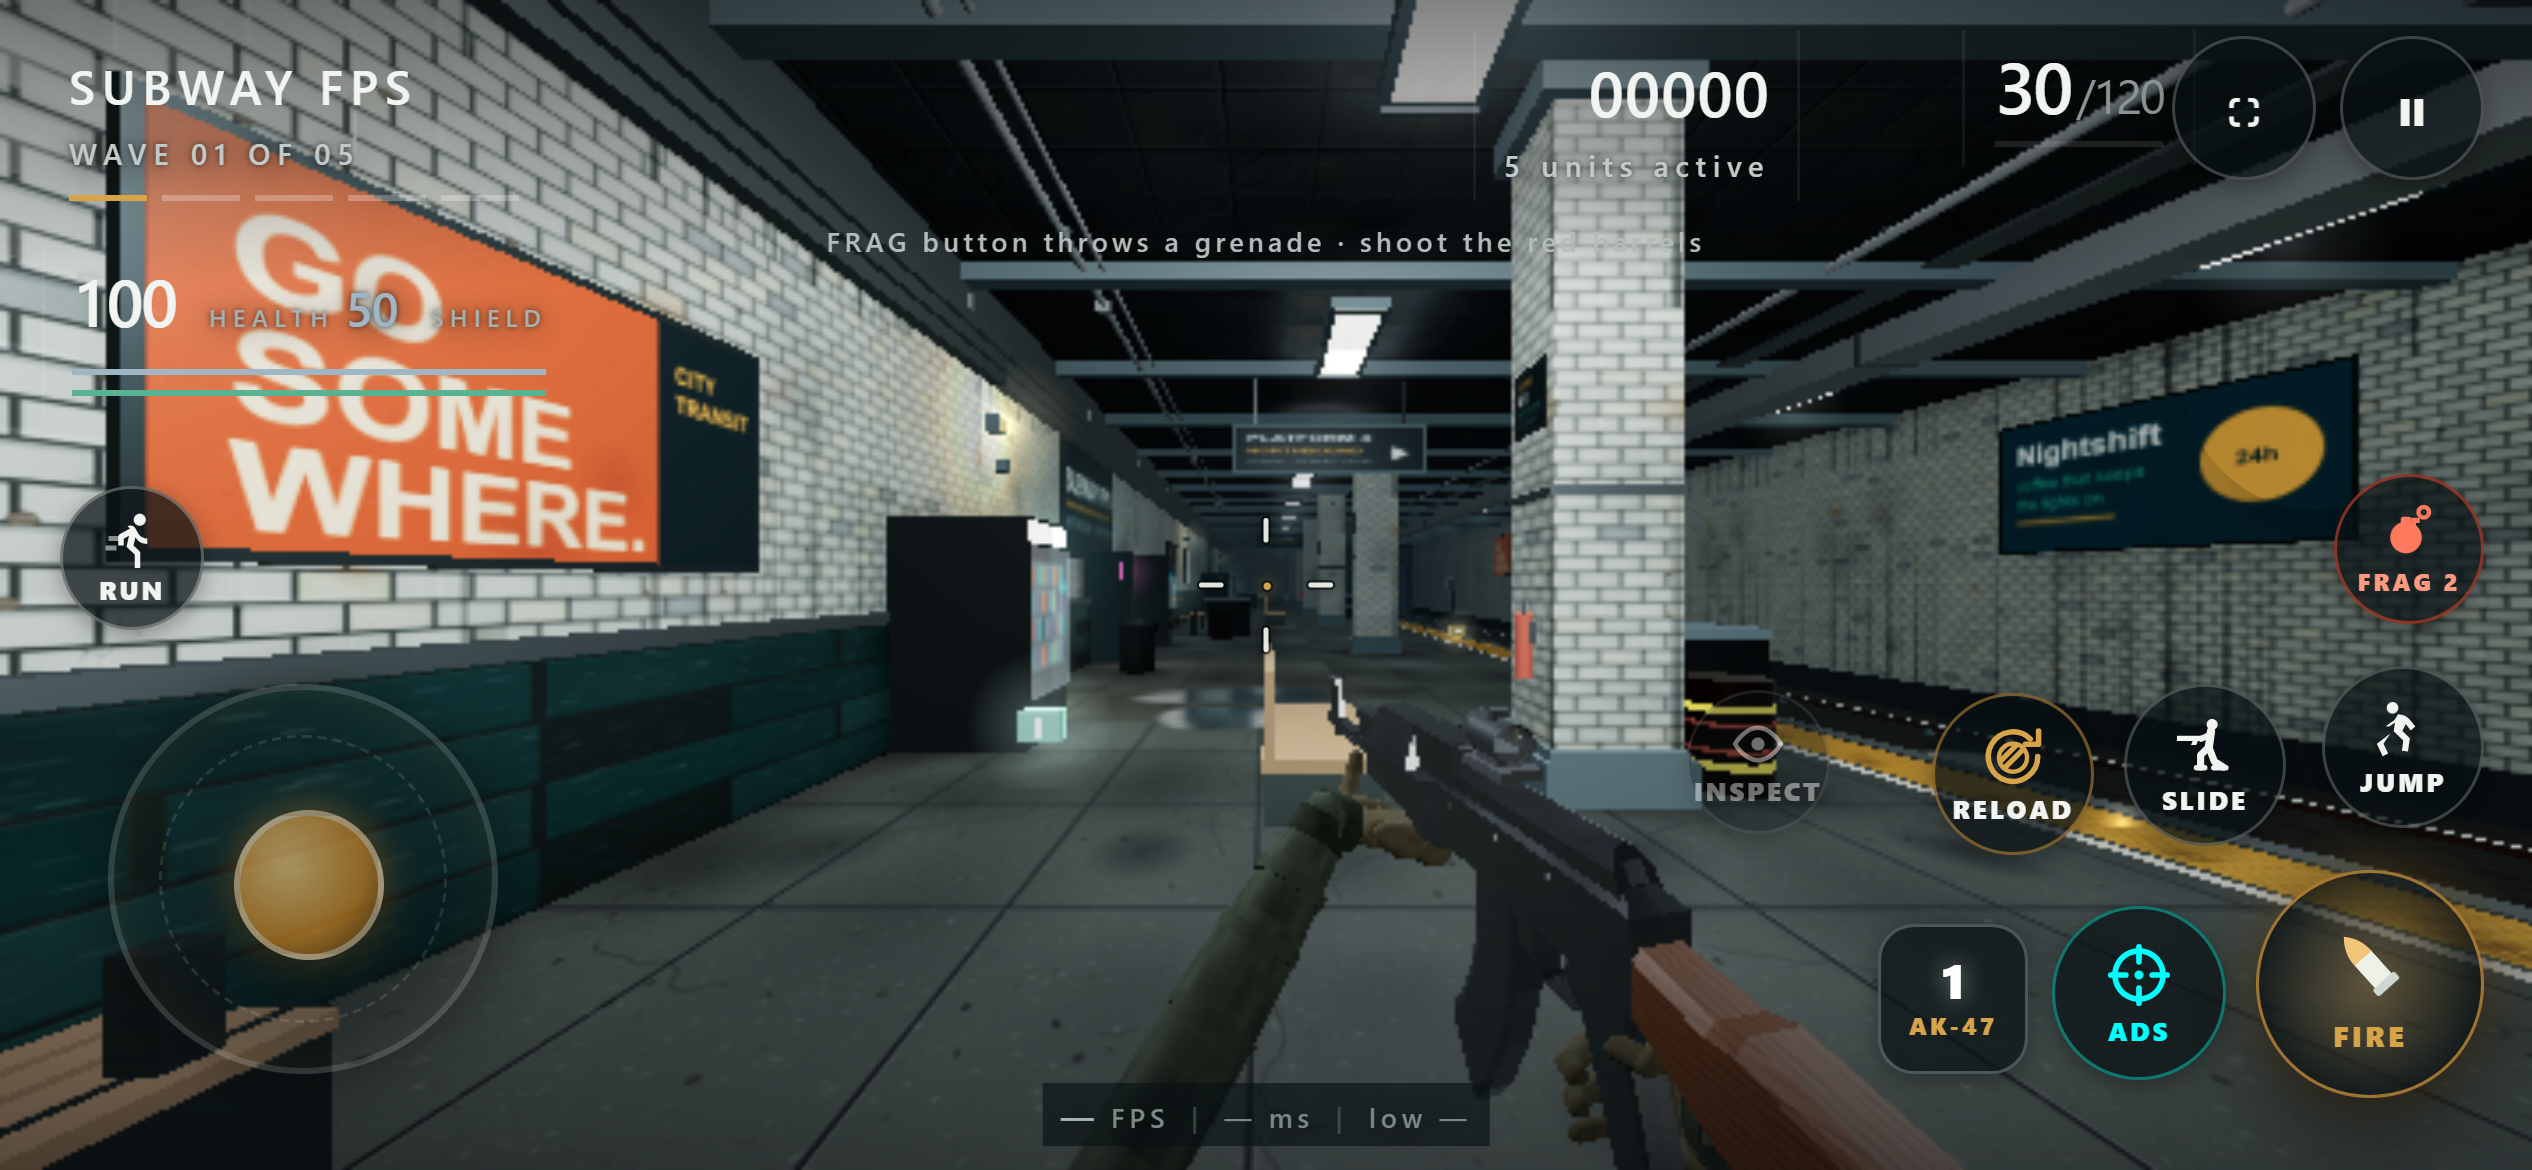
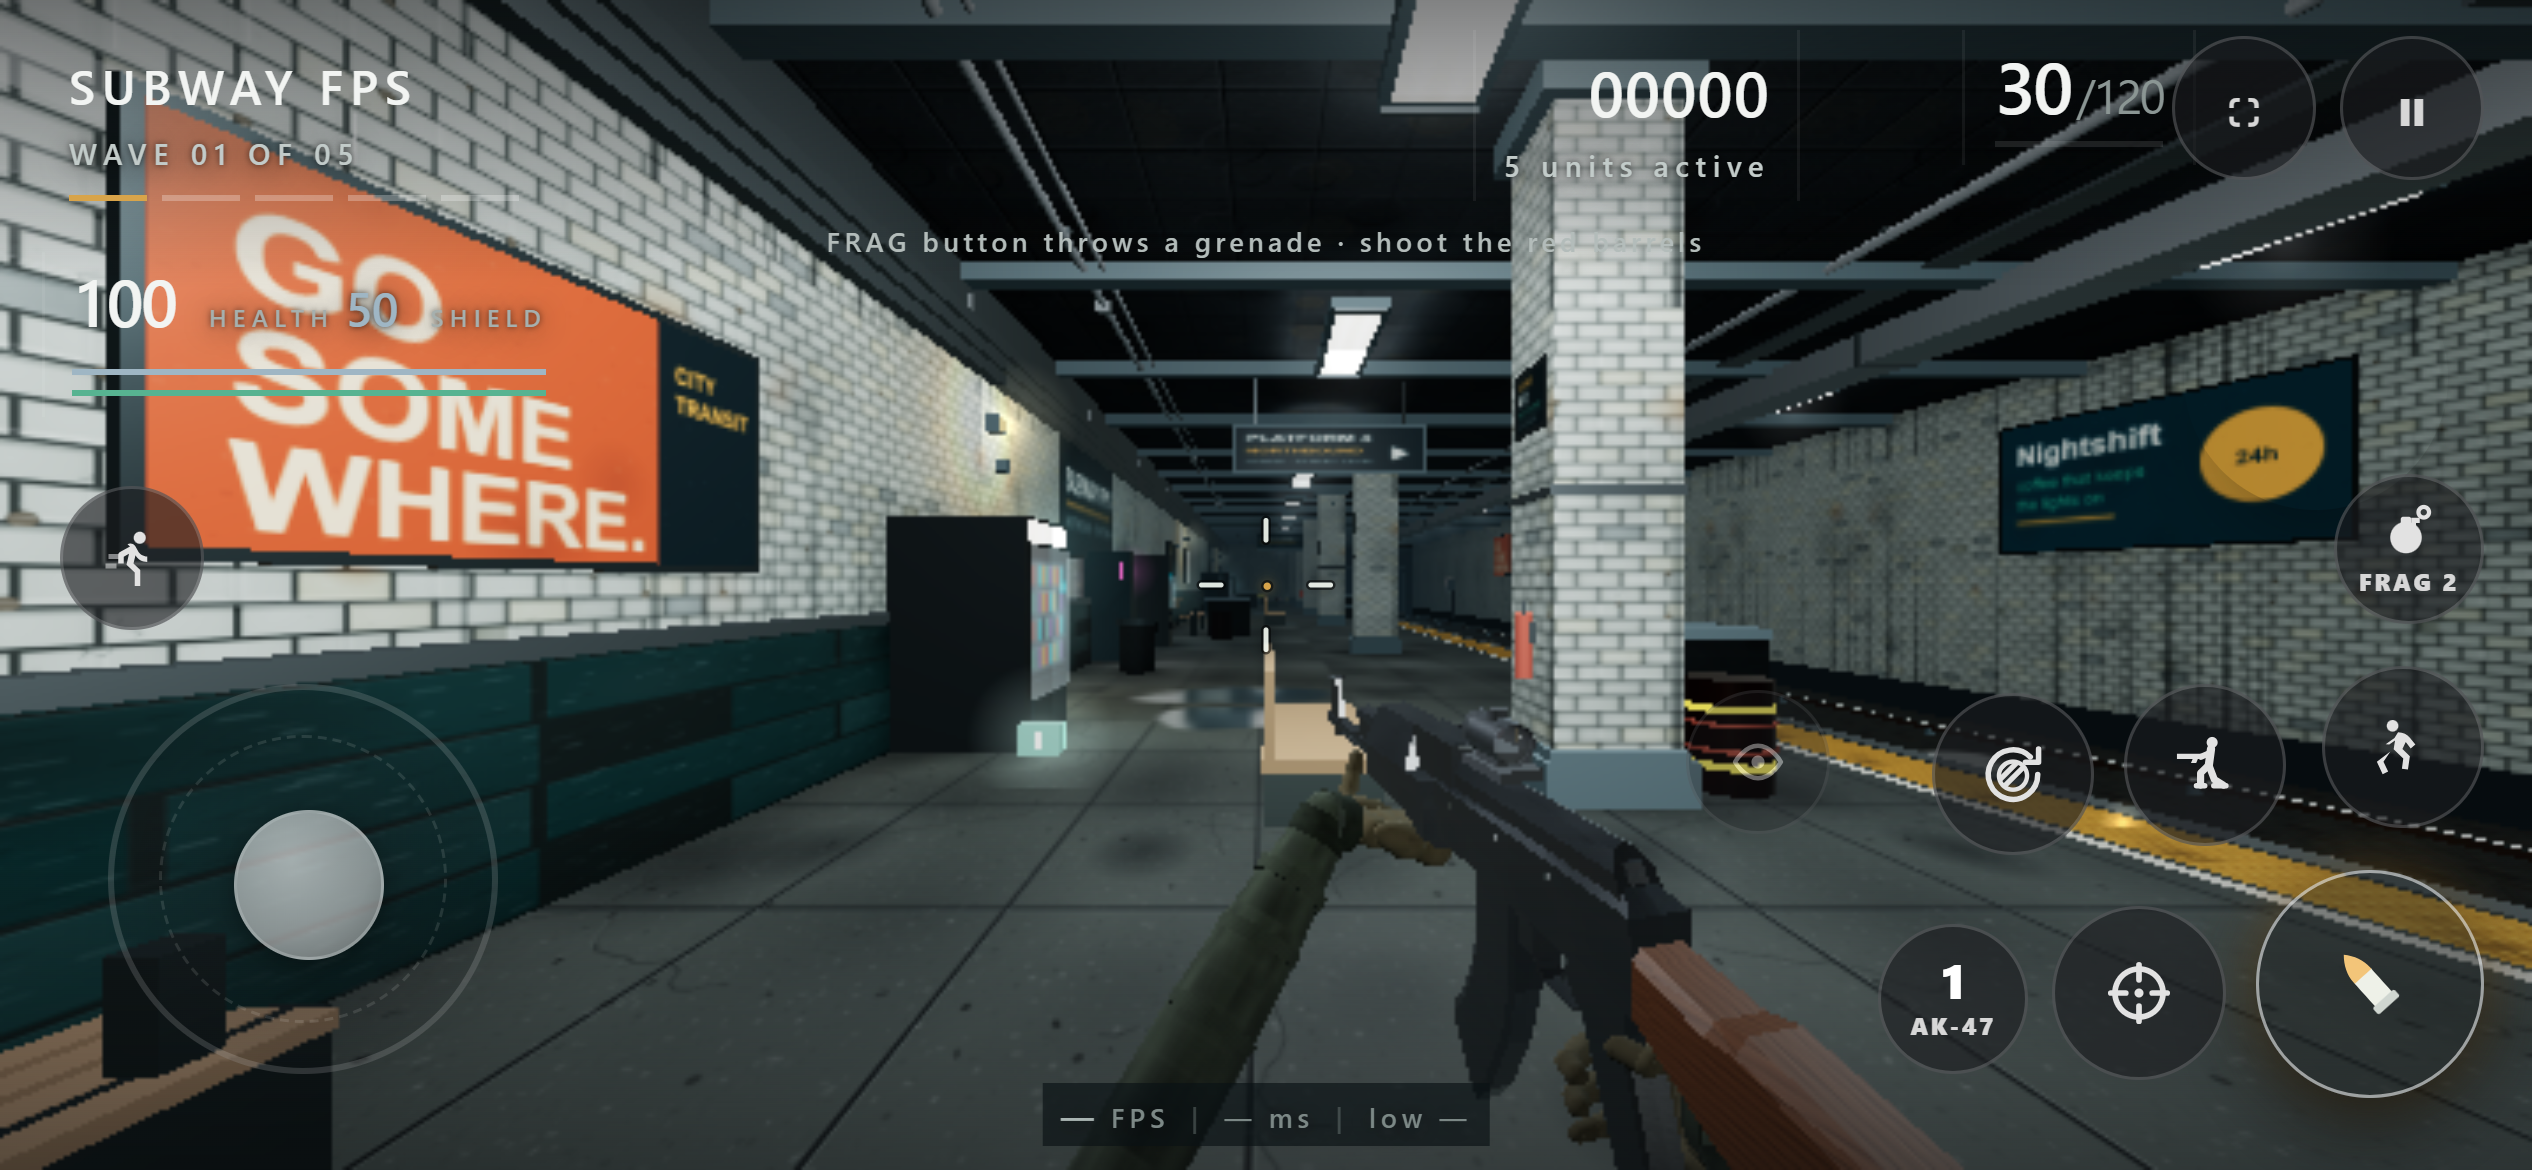
Match the touch controls to the reference treatment
Sampled the supplied screenshot rather than eyeballing it: button fill is
rgb(43,43,43), the glyphs rgb(215,215,215) and the page rgb(53,53,53).
There is no saturation anywhere in that cluster, no glow, no coloured
border, and the combat buttons carry no text label.

  colour    amber fire, cyan ADS, red frag and teal crouch all drop to one
            neutral tone: fill rgba(26,28,30,.62), glyphs #e2e2e2
  borders   per-button coloured rings become one hairline at .17 white
  glow      coloured box-shadows and the backdrop blur are removed
  labels    hidden, except the two readouts that carry a value - the
            grenade count and the weapon name
  fire      a thin bright ring over the scene instead of a filled disc
  switch    a circle like every other button, not a rounded rectangle
  stick     neutral rim and a pale knob instead of the amber one

The two value-bearing labels need two ids to take their colour: the
existing '#t-nade .tbtn-sub' and '#t-switch .tbtn-sub' are id+class, so a
bare '#t-nade-count' loses to them and both readouts stayed amber.

aria-label is untouched on every button, so the controls still announce
themselves even though the visible captions are gone.

160 regression checks, 56 graphics checks and the parse check pass, all
seven viewports stay overlap-free, and the drag-to-arrange editor still
opens from the pause menu with the controls in their new treatment.

Claude-Session: https://claude.ai/code/session_01Nd5JABvx33fn5Pk51fiSZj

diff --git a/css/game.css b/css/game.css
@@ -1170,3 +1170,63 @@ h2{font-weight:600;letter-spacing:-.03em}
 @media (max-height:600px) and (orientation:landscape){
   #hint{top:calc(80px + env(safe-area-inset-top))}
 }
+
+/* ============================================================================
+   Touch controls, matched to the reference layout
+   Sampled from the supplied screenshot: button fill rgb(43,43,43), glyphs
+   rgb(215,215,215), page rgb(53,53,53) - the whole cluster is neutral. There
+   is no accent colour, no glow and no coloured border anywhere in it, and the
+   combat buttons carry no text label; only the readouts that hold a value
+   (grenade count, weapon name) show type.
+   ============================================================================ */
+
+.tbtn{
+  background:rgba(26,28,30,.62);
+  border:1px solid rgba(255,255,255,.17);
+  box-shadow:none;
+  -webkit-backdrop-filter:none;backdrop-filter:none;
+  color:#d7d7d7;
+}
+.touch-active .tbtn{box-shadow:none}
+.tbtn:active,.tbtn.active,.tbtn.pressed{
+  transform:scale(.94);
+  background:rgba(255,255,255,.20);
+  border-color:rgba(255,255,255,.34);
+  box-shadow:none;
+}
+
+/* the glyphs are one neutral tone, not a palette */
+.tbtn .t-svg{color:#e2e2e2}
+#t-fire .t-svg,#t-ads .t-svg,#t-reload .t-svg,#t-nade .t-svg,#t-jump .t-svg,
+#t-crouch .t-svg,#t-inspect .t-svg,#t-sprint .t-svg{color:#e2e2e2}
+
+/* no coloured rings or fills on any individual button */
+#t-fire,#t-ads,#t-reload,#t-nade,#t-switch,#t-jump,#t-crouch,#t-inspect,#t-sprint{
+  border-color:rgba(255,255,255,.17);
+  background:rgba(26,28,30,.62);
+}
+#t-ads.active,#t-crouch.active,#t-sprint.active{
+  border-color:rgba(255,255,255,.34);background:rgba(255,255,255,.20);box-shadow:none;
+}
+/* the fire button in the reference is a thin light ring over the scene, not a filled disc */
+#t-fire{
+  background:rgba(20,22,24,.34);
+  border:1.5px solid rgba(255,255,255,.55);
+}
+#t-fire:active{background:rgba(255,255,255,.20);border-color:rgba(255,255,255,.85)}
+
+/* combat buttons are unlabelled; only a value-bearing readout keeps its type.
+   These need two ids to outrank '#t-nade .tbtn-sub' / '#t-switch .tbtn-sub',
+   which are id+class and would otherwise keep both readouts amber. */
+.tbtn-sub{display:none}
+#t-nade #t-nade-count,#t-switch #t-wpn-label{display:block;color:#d7d7d7;font-size:8px;letter-spacing:.1em}
+.t-wpn-badge{color:#fff;text-shadow:none}
+#t-switch{border-radius:50%}
+
+/* the stick matches: neutral rim, pale knob, no amber cast */
+#stick{border-color:rgba(255,255,255,.22);box-shadow:none;
+  background:radial-gradient(circle,rgba(20,22,24,.55) 0%,rgba(20,22,24,.18) 70%,transparent 100%)}
+#stick.active{border-color:rgba(255,255,255,.45);box-shadow:none}
+#knob{background:radial-gradient(circle at 38% 34%,#f2f2f2 0%,#c9c9c9 60%,#8e8e8e 100%);
+  border:1px solid rgba(255,255,255,.55);box-shadow:0 2px 8px rgba(0,0,0,.6)}
+#stick-sprint-lock.locked{color:#fff;text-shadow:none}
